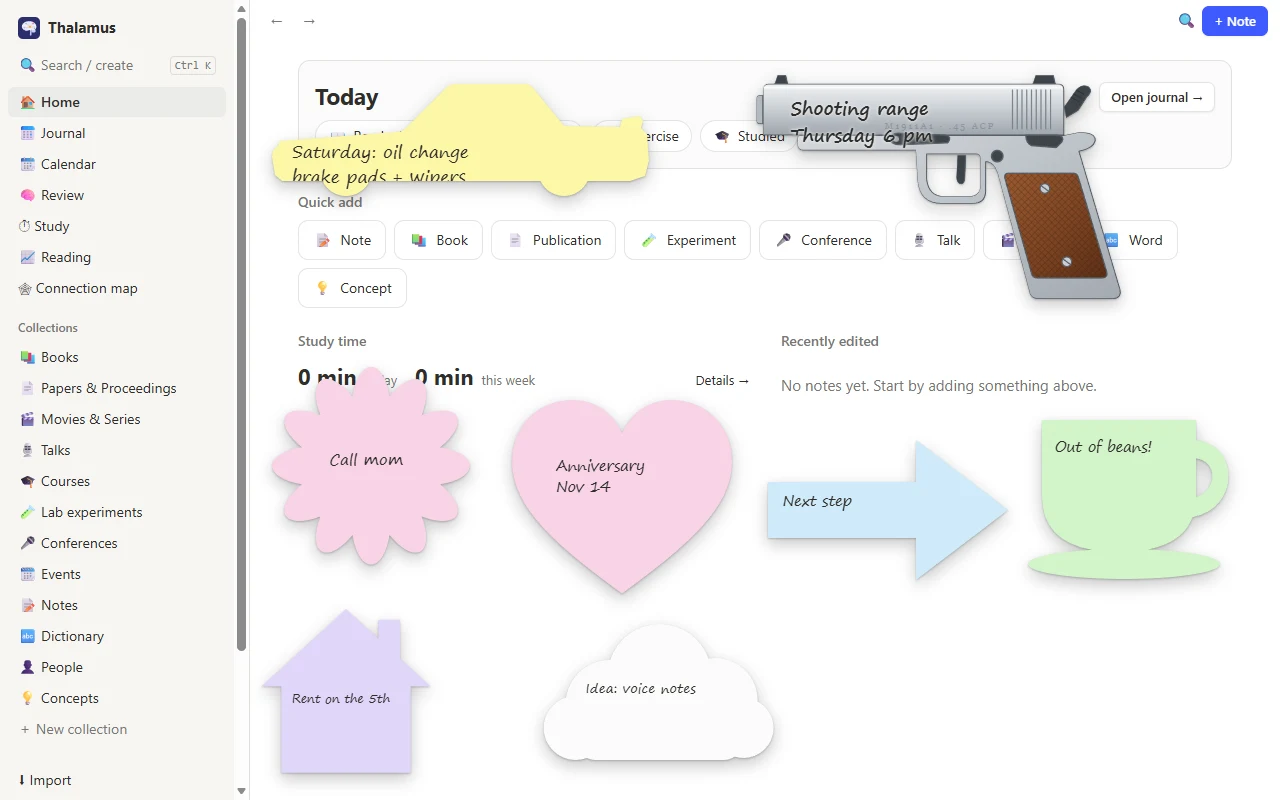
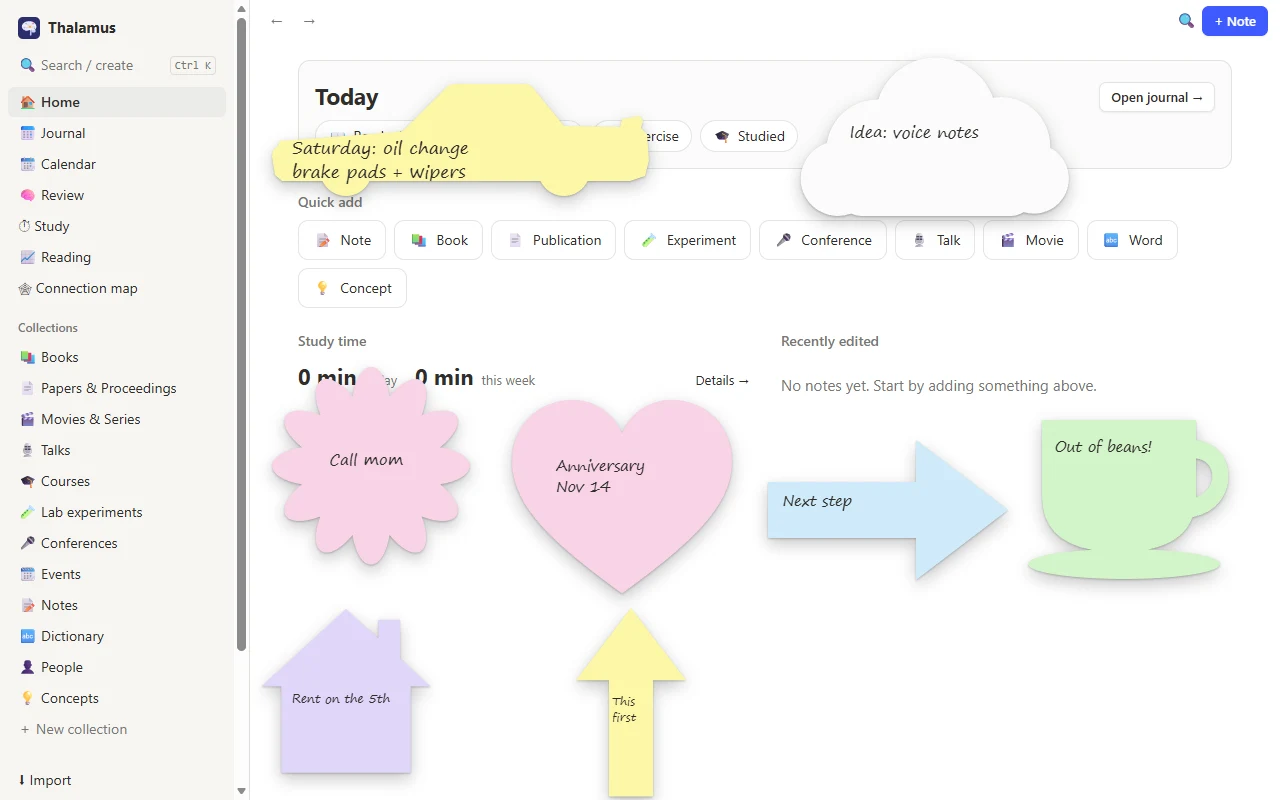
Shaped note paper: keep the pistol a surprise in the Market
The Market text and images no longer mention or show the Colt, and the
car is just a car. The text also describes multiple text pieces per note.

Changed region(s): [[0.5625, 0.0938, 0.875, 0.4062], [0.4375, 0.75, 0.5938, 1.0], [0.2188, 0.1562, 0.375, 0.25]]

diff --git a/web/src/i18n/locales/tr/plugins.ts b/web/src/i18n/locales/tr/plugins.ts
@@ -34,15 +34,15 @@ export default {
   },
   stickyShape: {
     name: 'Şekilli not kâğıtları',
-    summary: 'Kırtasiyedeki şekilli post-it’ler gibi: araba, tabanca, çiçek, ev, kalp, bulut, fincan ve ok şeklinde yapışkan notlar.',
+    summary: 'Kırtasiyedeki şekilli post-it’ler gibi: araba, çiçek, ev, kalp, bulut, fincan ve ok şeklinde yapışkan notlar.',
     description: {
-      p1: 'Kâğıdın kendisi bir şekil: bir arabanın ya da tabancanın yandan görünüşü, bir papatya, bir ev, bir kalp… Kâğıt rengini yine sen seçersin.',
-      p2: 'Yazıyı kâğıdın istediğin yerine koyabilirsin. Kâğıdı büyütüp küçültünce şekil ezilmez, yazı da onunla birlikte büyür. Eklentiyi kaldırırsan şekilli kâğıtlar dikdörtgene döner, notların silinmez.',
+      p1: 'Kâğıdın kendisi bir şekil: yandan görünen bir araba, bir papatya, bir ev, bir kalp… Kâğıt rengini yine sen seçersin.',
+      p2: 'Bir kâğıda istediğin kadar yazı ekleyebilir, her birini sürükleyerek istediğin yere taşıyabilirsin. Kâğıdı büyütüp küçültünce şekil ezilmez, yazılar da onunla birlikte büyür. Eklentiyi kaldırırsan şekilli kâğıtlar dikdörtgene döner, notların silinmez.',
     },
     features: {
-      f1: '11 şekil: BMW M3 (E30), Colt 1911, papatya, ev, kalp, bulut, kahve fincanı ve dört yöne ok',
-      f2: 'Colt 1911 kendi renkleriyle çizilmiş: paslanmaz çelik gövde, ceviz kabza',
-      f3: 'Kâğıdın boş bir yerine tıkla, yazı oraya taşınsın',
+      f1: 'Şekiller: araba, papatya, ev, kalp, bulut, kahve fincanı ve dört yöne ok',
+      f2: 'Kâğıdın boş bir yerine tıkla, oraya yeni bir yazı ekle; yazıları sürükleyerek taşı',
+      f3: 'Boyutlandırınca şekil ezilmez, yazılar kâğıtla birlikte büyür',
     },
     usage: 'Bir yapışkan notun ⋯ düğmesine tıkla; renklerin altındaki şekillerden birini seç. Dikdörtgene dönmek için ilk kutucuğu seç.',
     dataLabel: 'kâğıtlardaki şekil seçimleri (notlar kalır, dikdörtgene döner)',

diff --git a/web/src/i18n/locales/en/plugins.ts b/web/src/i18n/locales/en/plugins.ts
@@ -36,15 +36,15 @@ export default {
   },
   stickyShape: {
     name: 'Shaped note paper',
-    summary: 'Like the shaped Post-its from the stationery shop: sticky notes shaped like a car, a pistol, a flower, a house, a heart, a cloud, a cup or an arrow.',
+    summary: 'Like the shaped Post-its from the stationery shop: sticky notes shaped like a car, a flower, a house, a heart, a cloud, a cup or an arrow.',
     description: {
-      p1: 'The paper itself is the shape: a car or a pistol seen from the side, a daisy, a house, a heart… You still pick the paper color.',
-      p2: 'You can put your text anywhere on the paper. Resizing keeps the shape’s proportions, and the text grows and shrinks with it. If you uninstall the plugin, shaped notes go back to rectangles; nothing is deleted.',
+      p1: 'The paper itself is the shape: a car seen from the side, a daisy, a house, a heart… You still pick the paper color.',
+      p2: 'Add as many pieces of text to a note as you like and drag each one wherever you want it. Resizing keeps the shape’s proportions, and the text grows and shrinks with it. If you uninstall the plugin, shaped notes go back to rectangles; nothing is deleted.',
     },
     features: {
-      f1: '11 shapes: BMW M3 (E30), Colt 1911, daisy, house, heart, cloud, coffee cup and arrows in four directions',
-      f2: 'The Colt 1911 is drawn in its own colors: stainless steel frame, walnut grips',
-      f3: 'Click an empty spot on the paper to move your text there',
+      f1: 'Shapes: car, daisy, house, heart, cloud, coffee cup and arrows in four directions',
+      f2: 'Click an empty spot on the paper to add new text there; drag text to move it',
+      f3: 'Resizing keeps the shape, and the text grows with the paper',
     },
     usage: 'Click a sticky note’s ⋯ button, then pick a shape below the colors. Pick the first square to go back to a rectangle.',
     dataLabel: 'the shape choices on your notes (the notes stay, back as rectangles)',
